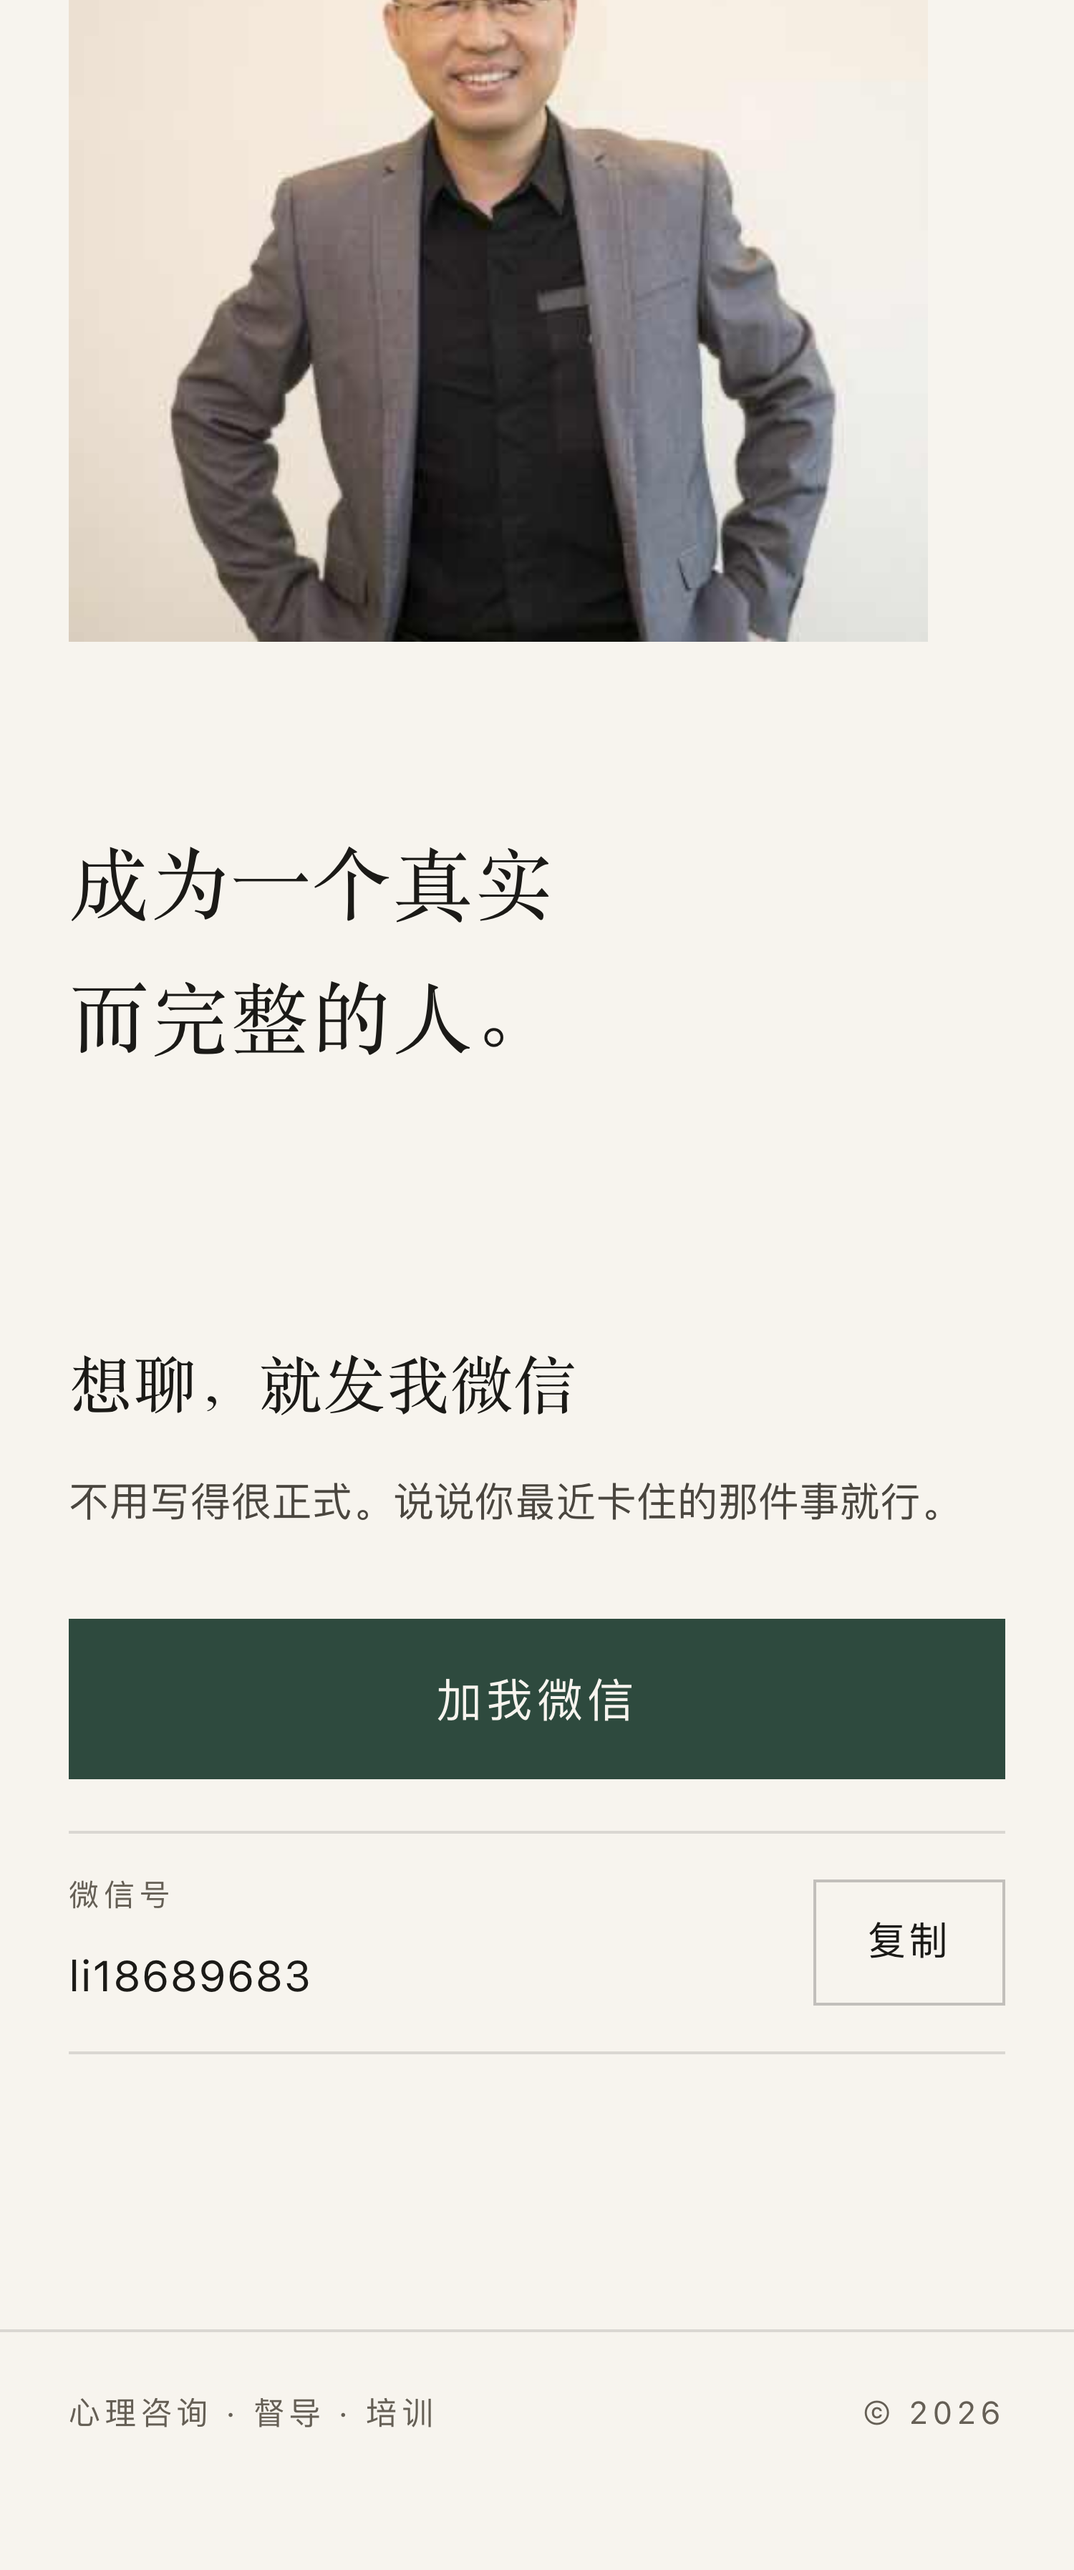
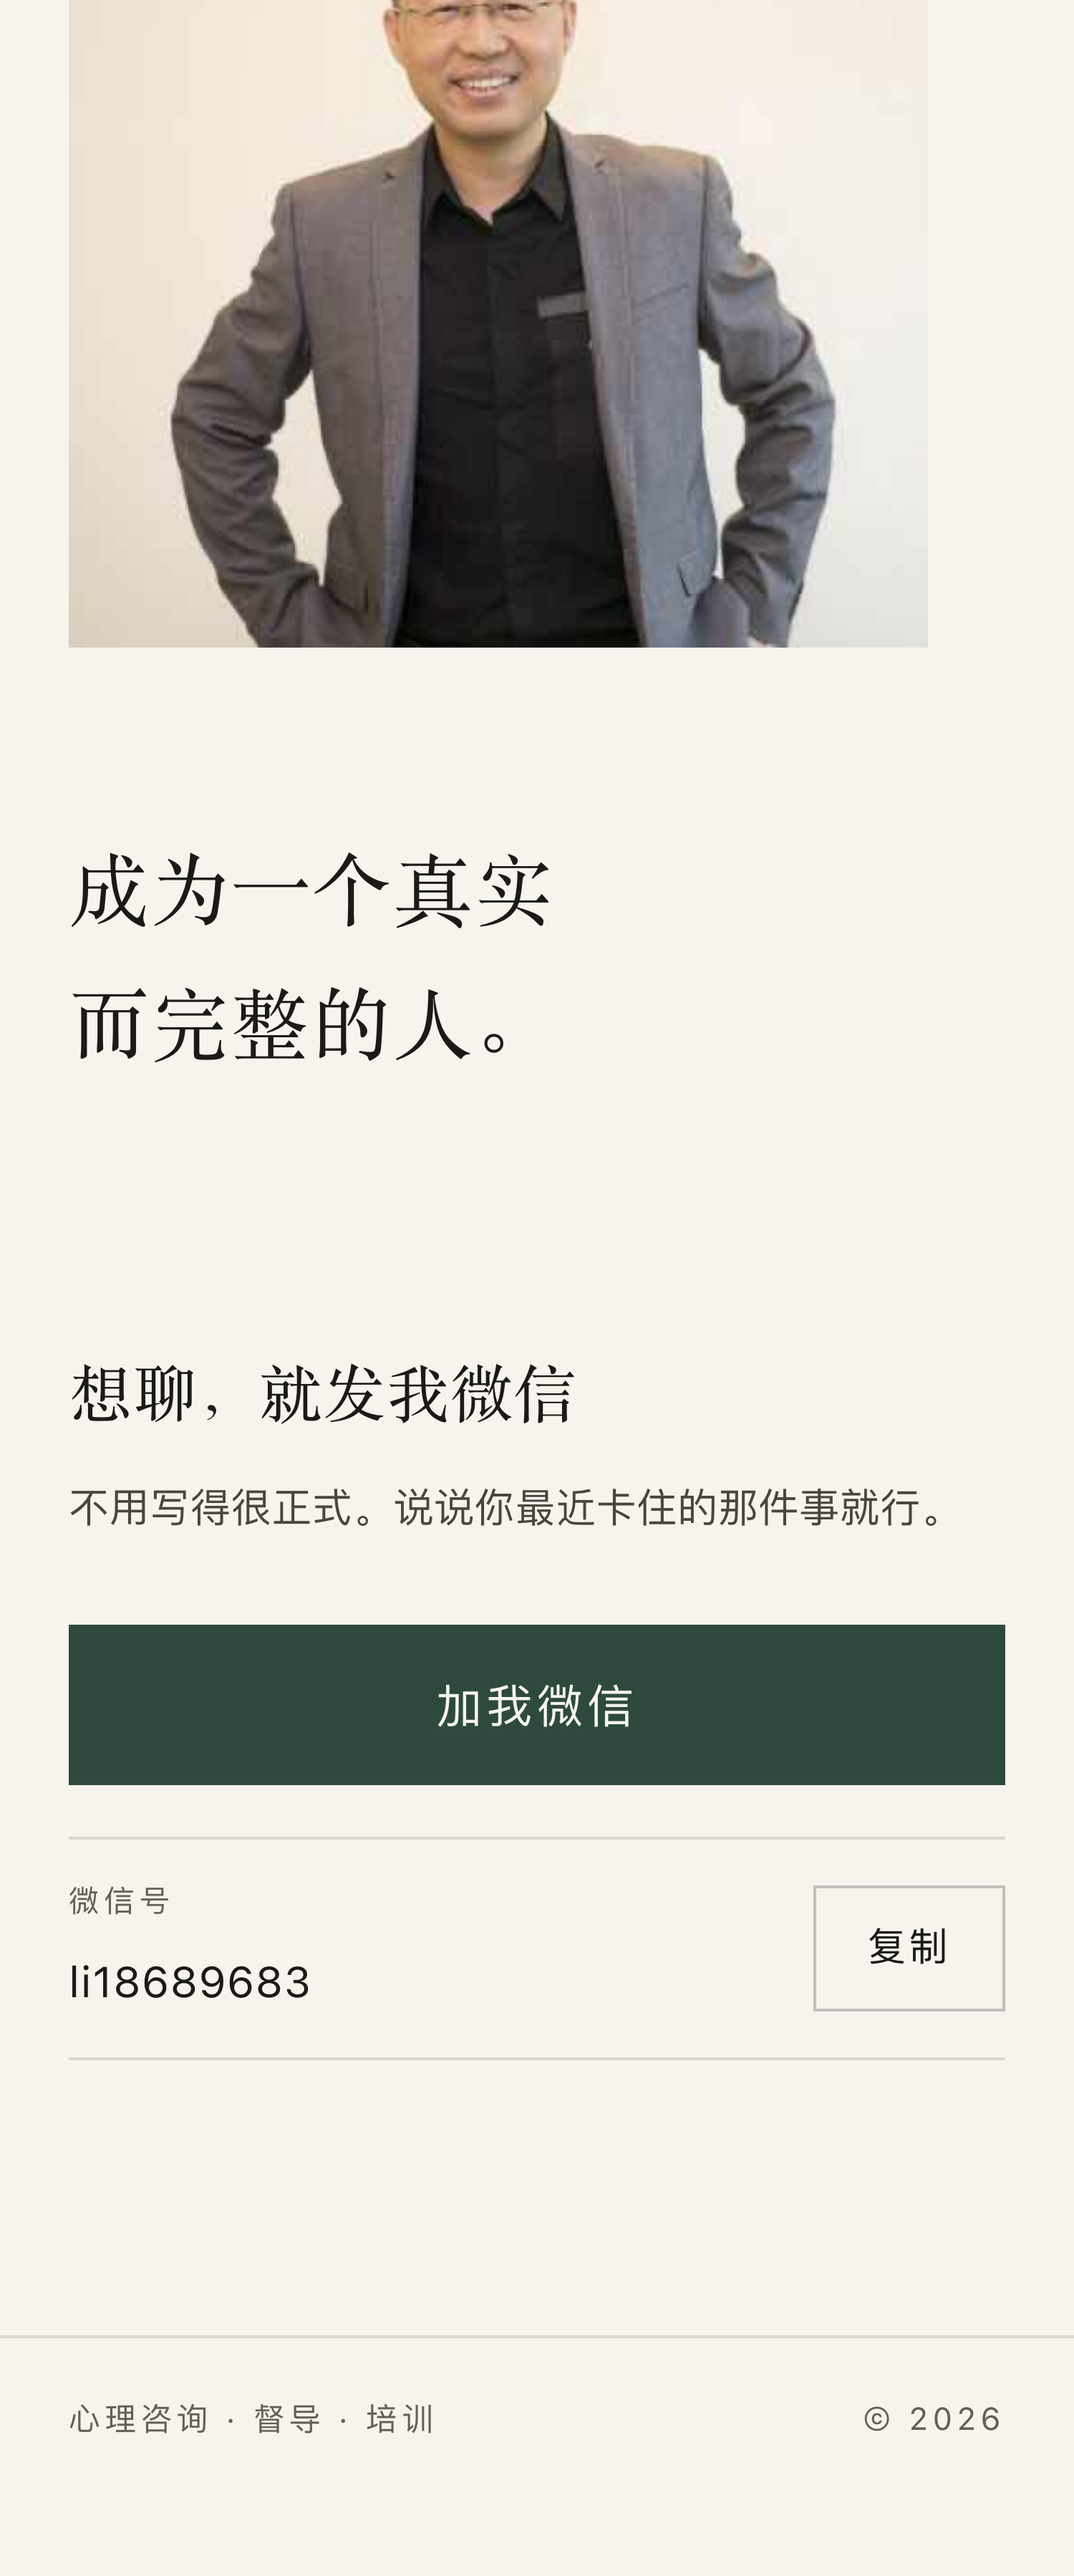
Add files via upload

diff --git a/site/styles.css b/site/styles.css
@@ -31,15 +31,11 @@ a{-webkit-tap-highlight-color:transparent}
 .since{color:var(--muted)}
 
 /* 首屏 */
-.hero{padding:62px 0 52px}
+.hero{padding:56px 0 48px}
 .eyebrow{margin:0 0 28px;font-size:11px;letter-spacing:.24em;color:var(--muted)}
 h1{
   margin:0;font-family:var(--serif);font-weight:400;
   font-size:clamp(23px,7.4vw,40px);line-height:1.52;letter-spacing:.01em;
-}
-h1 .tail{
-  display:block;margin-top:.55em;color:var(--accent);
-  font-size:.8em;line-height:1.6;
 }
 .lede{margin:26px 0 0;font-size:15.5px;line-height:1.95;color:var(--ink-2);max-width:26em}
 
@@ -147,7 +143,7 @@ footer span{font-size:11px;letter-spacing:.14em;color:var(--muted)}
   body{font-size:18px}
   .wrap{max-width:680px}
   h1{font-size:42px}
-  .hero{padding:88px 0 64px}
+  .hero{padding:82px 0 58px}
   .sec{padding-top:96px}
   .band{margin-top:96px;padding:72px 0 76px}
   .figure{padding-top:88px}

diff --git a/site/index.html b/site/index.html
@@ -25,10 +25,7 @@
   <section class="hero">
     <div class="wrap">
       <p class="eyebrow">写给正在做这行的你</p>
-      <h1>
-        学习不是消除你的特点，<br>而是增加你的弹性
-        <span class="tail">成为一个真实而完整的人。</span>
-      </h1>
+      <h1>学习不是消除你的特点，<br>而是增加你的弹性</h1>
       <p class="lede">我做心理咨询十多年。现在给咨询师上课，也带一千多名心理老师的专业学习。</p>
     </div>
   </section>
